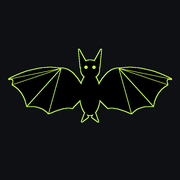
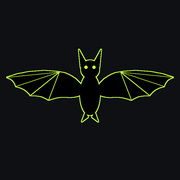
Operación Batman: alas del icono más finas
Claude-Session: https://claude.ai/code/session_0136anGwXVA4PohtLM3ELyZh

Changed region(s): [[0.5278, 0.3611, 0.9722, 0.6389], [0.0278, 0.3611, 0.4722, 0.6389]]

diff --git a/focus/sw.js b/focus/sw.js
@@ -1,5 +1,5 @@
 // Service worker de Focus: la app abre aunque no haya conexión; los datos siempre van a la red.
-const CACHE = 'focus-v8';
+const CACHE = 'focus-v9';
 const ASSETS = ['./', './index.html', './manifest.json', './icon-180.png', './icon-192.png', './icon-512.png'];
 self.addEventListener('install', e => {
   e.waitUntil(caches.open(CACHE).then(c => c.addAll(ASSETS)).then(() => self.skipWaiting()));
